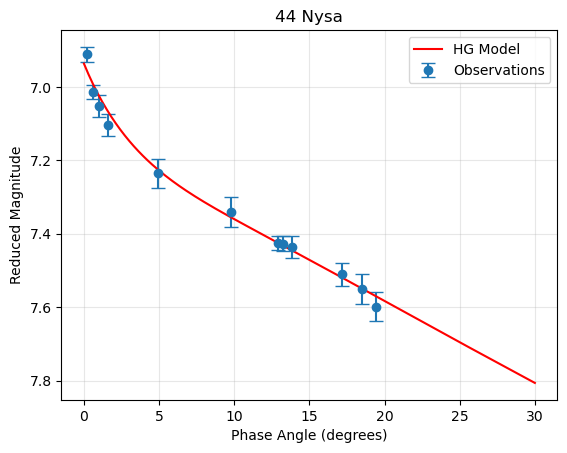
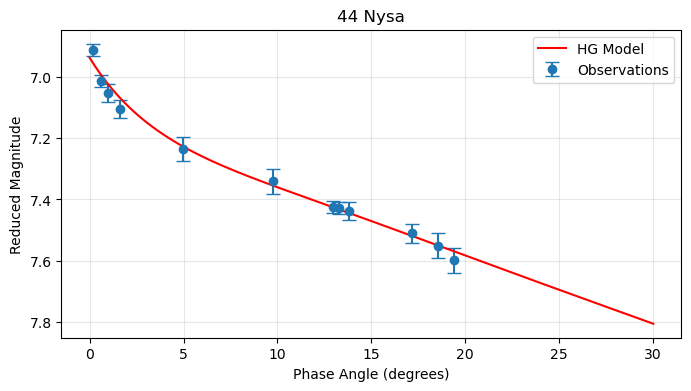
Update documentation

diff --git a/docs/generate-models.md b/docs/generate-models.md
@@ -39,6 +39,12 @@ new_angles = np.array([1, 5, 10, 15, 20, 25, 30])
 extended_mags = pc.generateModel(model="HG", degrees=new_angles)
 print("Model at extended angles:", extended_mags)
 ```
+```console
+Model at original angles: [6.95322579 6.99455516 7.02274888 7.06830039 7.22616926 7.35526372
+ 7.42522086 7.43249424 7.44442226 7.51929385 7.54999792 7.56988952]
+Model at extended angles: [7.02428427 7.22788627 7.36022689 7.47084845 7.58344709 7.6956334
+ 7.80641673]
+```
 
 ### Single Point Generation
 
@@ -51,6 +57,11 @@ print(f"Magnitude at 10°: {mag_at_10deg:.3f}")
 h_magnitude = pc.generateModel(model="HG", degrees=0.0)
 print(f"H parameter: {pc.params['H']:.3f}")
 print(f"Magnitude at 0°: {h_magnitude:.3f}")  # Should match H
+```
+```console
+Magnitude at 10°: 7.360
+H parameter: 6.937
+Magnitude at 0°: 6.937
 ```
 
 ## Theoretical Models
@@ -76,6 +87,9 @@ angles, mags = create_theoretical_model(
 )
 
 print(f"Generated {len(angles)} points from 0° to 30°")
+```
+```console
+Generated 100 points from 0° to 30°
 ```
 
 ### Standard Asteroid Types
@@ -114,7 +128,7 @@ import matplotlib.pyplot as plt
 
 models = generate_standard_types()
 
-plt.figure(figsize=(10, 6))
+plt.figure(figsize=(8, 4))
 for ast_type, data in models.items():
     plt.plot(data['angles'], data['magnitudes'],
              label=f"{ast_type} (G={data['params']['G']})")
@@ -126,6 +140,7 @@ plt.title('Standard Asteroid Type Phase Curves (HG model)')
 plt.legend()
 plt.show()
 ```
+![Standard Type Asteroid](images/standard-asteroid.png)
 
 ## Model Comparisons
 
@@ -145,7 +160,7 @@ def compare_photometric_models(h_value=15.0):
 
     phase_angles = np.linspace(0, 30, 200)
 
-    plt.figure(figsize=(10, 6))
+    plt.figure(figsize=(8, 4))
 
     for model, params in model_params.items():
         pc = PhaseCurve(angle=phase_angles, **params)
@@ -163,6 +178,8 @@ def compare_photometric_models(h_value=15.0):
 # Usage
 compare_photometric_models(h_value=15.0)
 ```
+
+![Photometric Model Comparison](images/photometric-model-comparison.png)
 
 ### Parameter Sensitivity
 
@@ -183,7 +200,7 @@ def parameter_sensitivity(model="HG", base_params=None, vary_param='G'):
 
     phase_angles = np.linspace(0, 30, 200)
 
-    plt.figure(figsize=(10, 6))
+    plt.figure(figsize=(8, 4))
 
     for i, var_value in enumerate(variations):
         # Create parameter set
@@ -211,6 +228,10 @@ def parameter_sensitivity(model="HG", base_params=None, vary_param='G'):
 parameter_sensitivity(model="HG", vary_param='G')
 parameter_sensitivity(model="HG", vary_param='H')
 ```
+
+![G Parameter Sensitivity](images/g-parameter-sensitivity.png)
+
+![H Parameter Sensitivity](images/h-parameter-sensitivity.png)
 
 ## Synthetic Datasets
 
@@ -245,7 +266,7 @@ def generate_synthetic_dataset(model, params, phase_angles, noise_level=0.02, se
 
 # Generate test dataset
 true_params = {'H': 15.234, 'G': 0.187}
-test_angles = np.array([3, 7, 11, 16, 21, 26])
+test_angles = np.array([3., 7., 11., 16., 21., 26.])
 
 synthetic_data = generate_synthetic_dataset(
     model="HG",
@@ -259,6 +280,12 @@ print("Synthetic dataset generated:")
 print(f"True H: {true_params['H']:.3f}")
 print(f"True G: {true_params['G']:.3f}")
 print(f"Noise level: {0.03:.3f} mag")
+```
+```console
+Synthetic dataset generated:
+True H: 15.234
+True G: 0.187
+Noise level: 0.030 mag
 ```
 
 ### Parameter Recovery Testing
@@ -320,6 +347,22 @@ def test_parameter_recovery(model, true_params, n_datasets=50):
 true_params = {'H': 15.234, 'G': 0.187}
 test_parameter_recovery("HG", true_params)
 ```
+```console
+Parameter Recovery Test (HG model):
+Successful fits: 50/50
+
+H:
+  True value: 15.2340
+  Mean recovered: 15.2441
+  Standard deviation: 0.0233
+  Bias: 0.0101
+
+G:
+  True value: 0.1870
+  Mean recovered: 0.1982
+  Standard deviation: 0.0248
+  Bias: 0.0112
+```
 
 ## Model Extrapolation
 
@@ -337,7 +380,7 @@ def extrapolate_model(pc, extended_range=(0, 60)):
     extended_angles = np.linspace(extended_range[0], extended_range[1], 300)
     extended_mags = pc.generateModel(model=pc.fitting_model, degrees=extended_angles)
 
-    plt.figure(figsize=(10, 6))
+    plt.figure(figsize=(8, 4))
 
     # Plot original data
     plt.errorbar(pc.angle, pc.magnitude, yerr=pc.magnitude_unc,
@@ -373,3 +416,5 @@ def extrapolate_model(pc, extended_range=(0, 60)):
 # Usage after fitting
 extended_angles, extended_mags = extrapolate_model(pc, extended_range=(0, 45))
 ```
+
+![Model Extrapolation](images/model-extrapolation.png)

diff --git a/docs/plotting.md b/docs/plotting.md
@@ -45,7 +45,7 @@ def plot_phase_curve(pc, model_name=None, title="Phase Curve"):
     if model_name is None:
         model_name = pc.fitting_model
 
-    fig, ax = plt.subplots(figsize=(9, 6))
+    fig, ax = plt.subplots(figsize=(8, 4))
 
     # Plot data with error bars
     ax.errorbar(pc.angle, pc.magnitude, yerr=pc.magnitude_unc,
@@ -69,7 +69,7 @@ def plot_phase_curve(pc, model_name=None, title="Phase Curve"):
 
         textstr = '\n'.join(param_text)
         props = dict(boxstyle='round', facecolor='white', alpha=1)
-        ax.text(0.03, 0.1, textstr, transform=ax.transAxes,
+        ax.text(0.03, 0.15, textstr, transform=ax.transAxes,
                verticalalignment='top', bbox=props)
 
     # Formatting
@@ -103,7 +103,7 @@ def plot_residuals(pc):
 
     residuals = np.array(pc.fit_residual)
 
-    fig, (ax1, ax2) = plt.subplots(1, 2, figsize=(12, 5))
+    fig, (ax1, ax2) = plt.subplots(1, 2, figsize=(8, 4))
 
     # Residuals vs phase angle
     ax1.plot(pc.angle, residuals, 'o-', markersize=6)
@@ -145,7 +145,7 @@ plot_residuals(pc)
 def plot_model_comparison(pc, models=["HG", "HG12", "LINEAR"]):
     """Compare multiple models on same data."""
 
-    fig, ax = plt.subplots(figsize=(9, 6))
+    fig, ax = plt.subplots(figsize=(8, 4))
 
     # Plot data
     ax.errorbar(pc.angle, pc.magnitude, yerr=pc.magnitude_unc,
@@ -211,7 +211,7 @@ def plot_parameter_distributions(pc):
     mc_data = pc.montecarlo_uncertainty
     n_params = len(mc_data)
 
-    fig, axes = plt.subplots(1, n_params, figsize=(5*n_params, 5))
+    fig, axes = plt.subplots(1, n_params, figsize=(8,4))
     if n_params == 1:
         axes = [axes]
 
@@ -237,7 +237,7 @@ def plot_parameter_distributions(pc):
         ax.set_xlabel(param)
         ax.set_ylabel('Probability Density')
         ax.set_title(f'{param} Distribution')
-        ax.legend()
+        ax.legend(fontsize="small")
         ax.grid(True, alpha=0.3)
 
     plt.tight_layout()

diff --git a/docs/fitting-models.md b/docs/fitting-models.md
@@ -20,6 +20,21 @@ pc.fitModel(model="HG", method="trust-constr")
 # View results
 pc.summary()
 ```
+```console
+================== PhaseCurve Summary ==================
+Data Points:         12
+Angle Range:         0.17° to 19.40°
+Magnitude Range:     6.91 to 7.60
+------------------------------------------------------
+Fitting Status:      SUCCESS
+Model:               HG
+Method:              trust-constr
+Fit RMS:             0.9365
+------------------- Model Parameters -------------------
+  H                    6.9365
+  G                    0.4731
+======================================================
+```
 
 ## Available Models
 
@@ -132,19 +147,6 @@ pc.fitModel(model="HG", method="trust-constr")  # Uses weights
 # Unweighted fitting
 pc = PhaseCurve(angle=angles, magnitude=mags)  # No magnitude_unc
 pc.fitModel(model="HG", method="trust-constr")  # Equal weights
-```
-
-## Accessing Fit Quality
-
-```python
-# RMS of residuals
-residuals = np.array(pc.fit_residual)
-rms = np.sqrt(np.mean(residuals**2))
-print(f"RMS: {rms:.4f} mag")
-
-# Individual residuals
-for i, res in enumerate(pc.fit_residual):
-    print(f"Point {i+1}: {res:.4f} mag")
 ```
 
 ## Next Steps

diff --git a/docs/boundaries.md b/docs/boundaries.md
@@ -143,6 +143,10 @@ for conditions in starting_points:
 print(f"Best RMS: {best_rms:.4f}")
 print(f"Best parameters: {best_params}")
 ```
+```console
+Best RMS: 0.8549
+Best parameters: {'H': 6.93653593554117, 'G': 0.4730865728694542, 'constraint': 0.5269134271305458}
+```
 
 ## Data-Driven Initial Conditions
 
